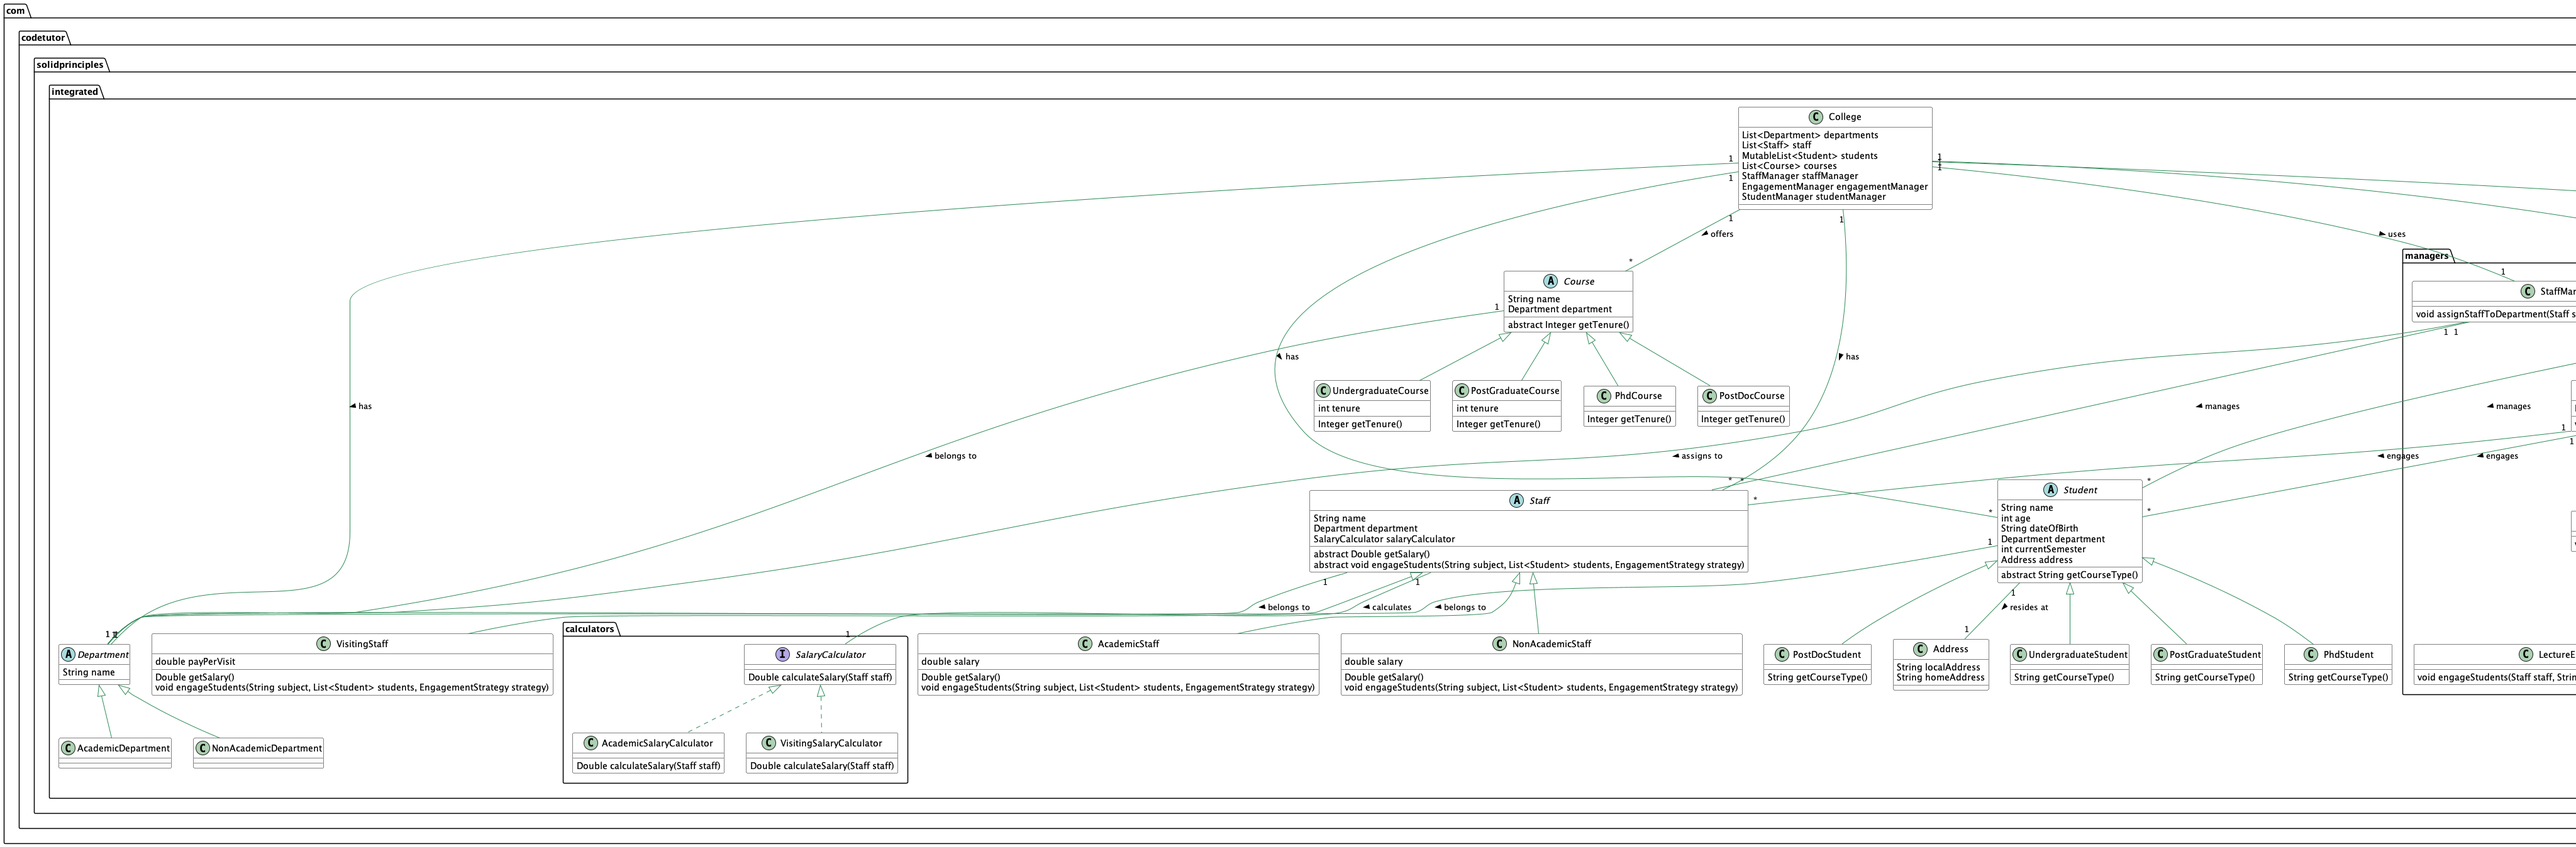
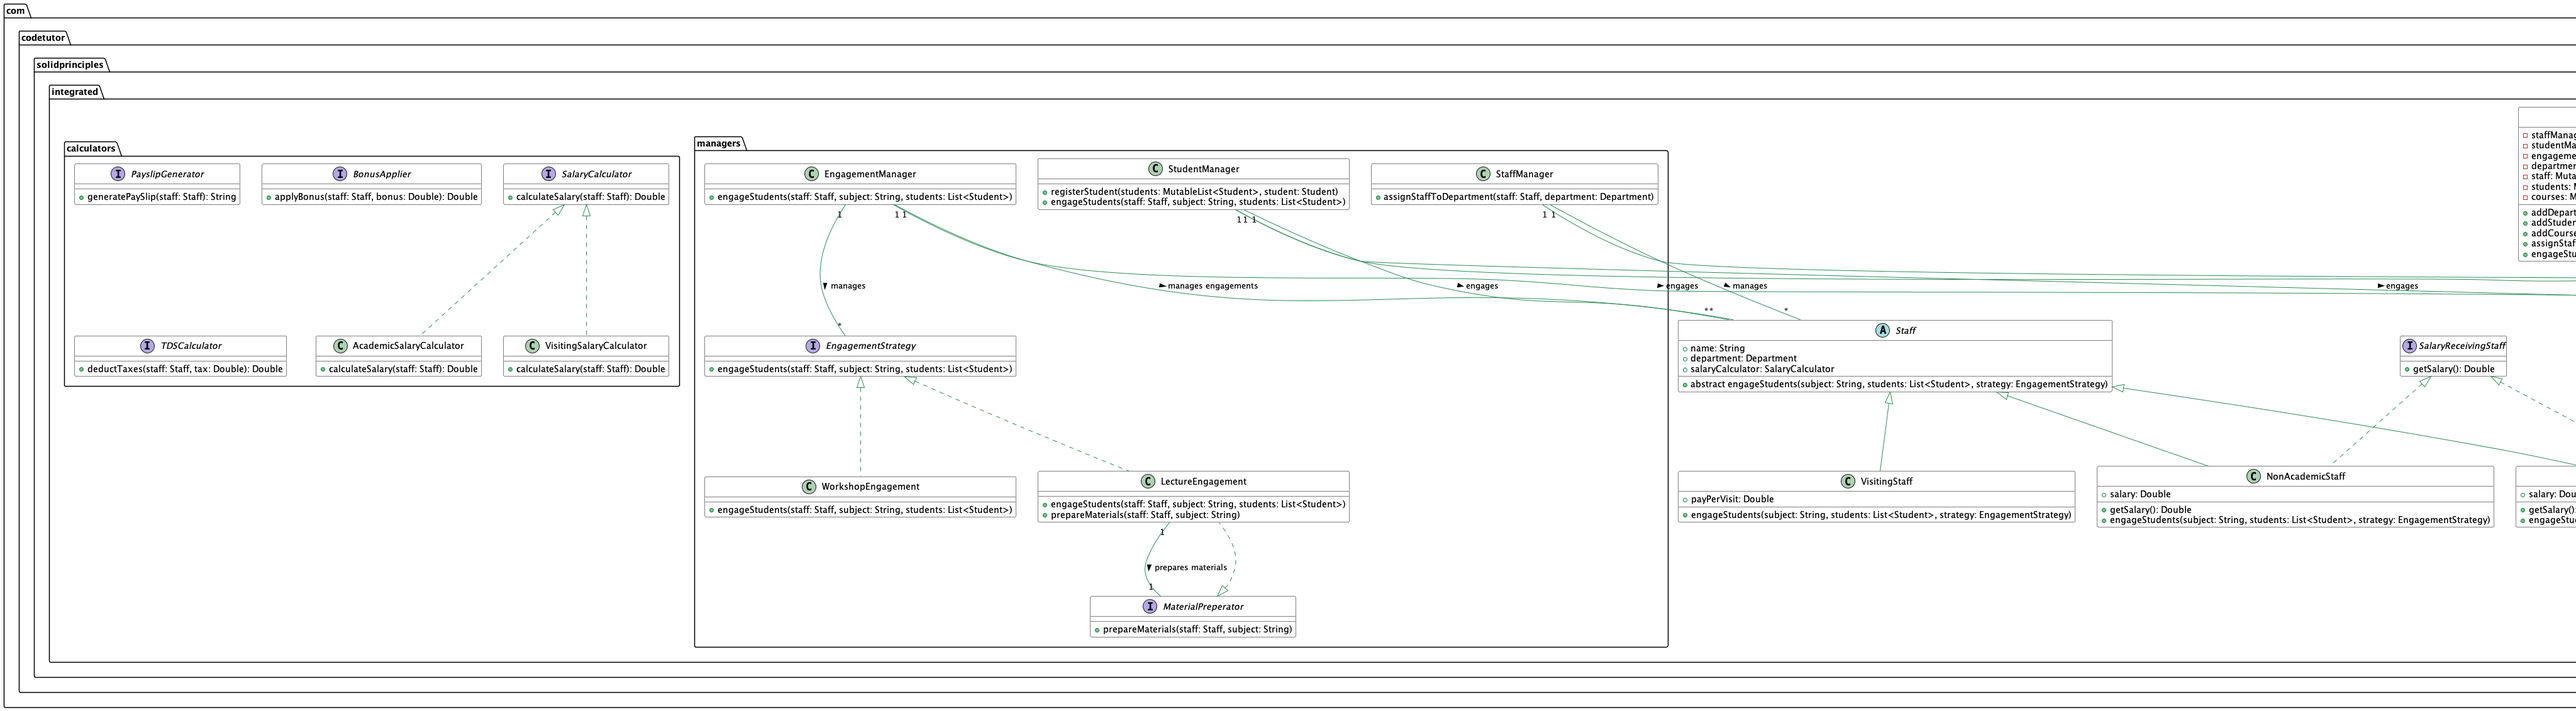
read me file updated with relevant information

diff --git a/README.md b/README.md
@@ -105,3 +105,65 @@ Based on the provided information, here are the total number of classes and inte
 - **Abstract Classes**: 4
 
 So, there are a total of **28 classes and interfaces** in the refactored code.
+
+### Number of classes after ISP refactoring is done
+## Project Structure Overview
+
+This project consists of several classes, interfaces, and abstract classes, organized as follows:
+
+## Project Structure Overview
+
+This project consists of several classes, interfaces, and abstract classes, organized as follows:
+
+### Total Count:
+
+- **Classes**: 22
+- **Interfaces**: 10
+- **Abstract Classes**: 5
+
+### Breakdown:
+
+#### Classes (22):
+1. `College`
+2. `AcademicDepartment`
+3. `NonAcademicDepartment`
+4. `UndergraduateStudent`
+5. `PostGraduateStudent`
+6. `PhdStudent`
+7. `PostDocStudent`
+8. `UndergraduateCourse`
+9. `PostGraduateCourse`
+10. `PhdCourse`
+11. `PostDocCourse`
+12. `AcademicStaff`
+13. `NonAcademicStaff`
+14. `VisitingStaff`
+15. `Address`
+16. `StaffManager`
+17. `StudentManager`
+18. `EngagementManager`
+19. `WorkshopEngagement`
+20. `LectureEngagement`
+21. `AcademicSalaryCalculator`
+22. `VisitingSalaryCalculator`
+
+#### Interfaces (10):
+1. `CourseTypeProvider`
+2. `SalaryReceivingStaff`
+3. `SalaryCalculator`
+4. `PayslipGenerator`
+5. `BonusApplier`
+6. `TDSCalculator`
+7. `EngagementStrategy`
+8. `TenureProvider`
+9. `DetailedAddress`
+10. `MaterialPreperator`
+
+#### Abstract Classes (5):
+1. `Department`
+2. `Student`
+3. `Staff`
+4. `Course`
+5. `EngagementStrategy` (can be interpreted as an abstract class in some contexts)
+
+
